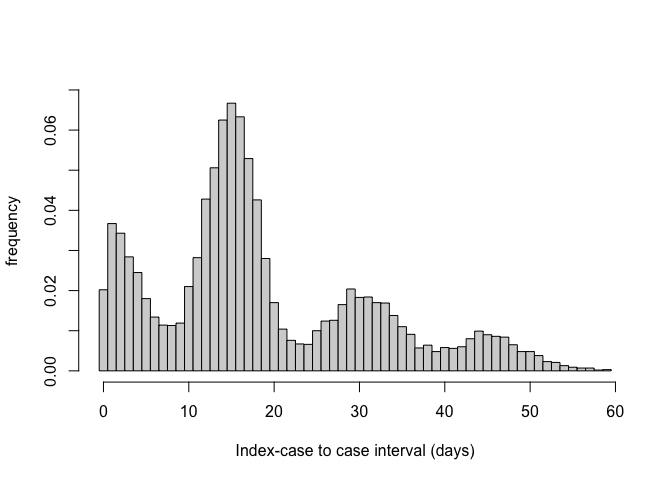
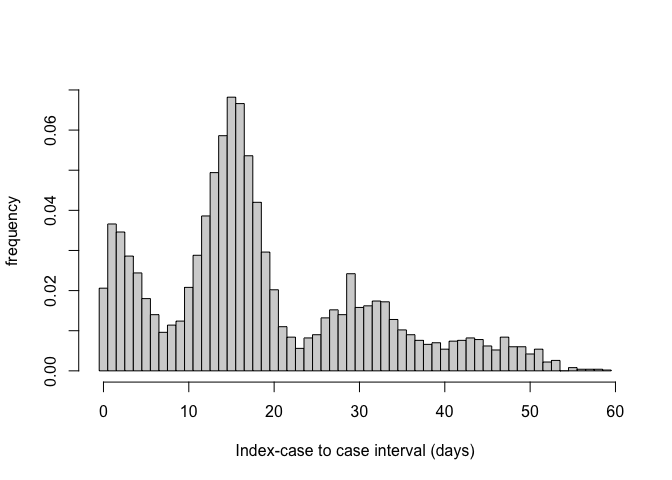
rebuild README.Rmd

diff --git a/README.md b/README.md
@@ -6,7 +6,12 @@
 <!-- badges: start -->
 <!-- badges: end -->
 
-The motivation behind creating the `mitey` package was twofold: 1) to provide the data and code to reproduce the results in Ainslie, K, M. Hooiveld, and J. Wallinga. 2024. On the epidemiological characteristics of scabies. *(in preparations)*, and 2) to provide flexible, documented code for methods not previously available in `R` that can help estimate epidemiological quantities of interest.
+The motivation behind creating the `mitey` package was twofold: 1) to
+provide the data and code to reproduce the results in Ainslie, K,
+Hooiveld, M, and Wallinga, J. 2024. On the epidemiological
+characteristics of scabies. , and 2) to provide flexible, documented
+code for methods not previously available in `R` that can help estimate
+epidemiological quantities of interest.
 
 ## Installation
 
@@ -26,7 +31,11 @@ A quick start guide and detailed vignettes are still in development.
 
 Validation of the method used to estimate the mean and standard
 deviation of the serial interval proposed by [Vink et
-al. 2014](https://doi.org/10.1093/aje/kwu209) can be found [here](https://kylieainslie.github.io/mitey/articles/code_validation_for_Vink_method.html)
+al. 2014](https://doi.org/10.1093/aje/kwu209) can be found
+[here](https://kylieainslie.github.io/mitey/articles/code_validation_for_Vink_method.html).
+
+The manuscript pre-print that motivated the development of this package
+can be found [here]().
 
 ## Example
 
@@ -46,7 +55,7 @@ library(fdrtool)
 ``` r
 set.seed(1234)
 
-N <- 2500; hmu<-15; hsigma<-3; hw1 <- 0.2; hw2 <- 0.5; hw3 <- 0.2; hw4 <- 0.1
+N <- 5000; hmu<-15; hsigma<-3; hw1 <- 0.2; hw2 <- 0.5; hw3 <- 0.2; hw4 <- 0.1
 
 CP <- rhalfnorm((hw1*N),theta=sqrt(pi/2)/(sqrt(2)*hsigma))
 PS <- rnorm(hw2*N,mean=hmu,sd=hsigma)
@@ -72,17 +81,17 @@ Then, we estimate the mean and standard deviation of the simulated
 serial interval using the `si_estim` function.
 
 ``` r
-results<- si_estim(sim_data, dist = "normal")
+results <- si_estim(sim_data)
 results
 #> $mean
-#> [1] 15.03357
+#> [1] 15.16373
 #> 
 #> $sd
-#> [1] 2.786672
+#> [1] 2.823293
 #> 
 #> $wts
-#> [1] 2.100299e-01 4.823883e-01 6.706310e-09 2.003141e-01 2.304775e-15
-#> [6] 1.072676e-01 9.057491e-22
+#> [1] 2.113966e-01 4.841131e-01 7.836824e-09 2.021913e-01 3.062666e-15
+#> [6] 1.022991e-01 1.368660e-21
 ```
 
 The output of `si_estim` is a named list with elements `mean`, `sd`, and
@@ -90,9 +99,9 @@ The output of `si_estim` is a named list with elements `mean`, `sd`, and
 of the serial interval distribution, respectively. We see that using the
 simulated data and assuming an underlying normal distribution, we obtain
 estimates very close to the input values: a mean serial interval
-estimate of 15.03 and a standard deviation of 2.79. We are also able to
+estimate of 15.16 and a standard deviation of 2.82. We are also able to
 recapture the input weights: hw1 = 0.21, hw2 = 0.48, hw3 = 0.2, hw4 =
-0.11.
+0.1.
 
 Using the `plot_si_fit` function, we can use the outputs of `si_estim`
 to plot the fitted serial interval over the symptom onset data.
